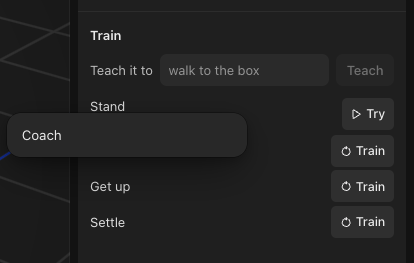
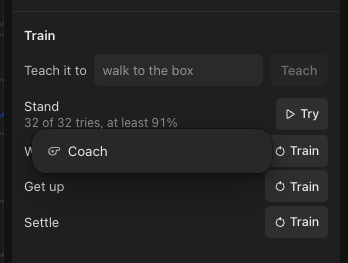
Show a coached skill's numbers on its row, keep coaching through a recheck, and link coaching from Arena and the Motor Kit article
Review asked for three fixes, all made here:
- A coached row's menu had an item labelled only with two numbers that
  replayed the skill. It is now a Compare item with CompareIcon. The
  signal's before and after numbers moved to a second state line under
  the row's Arena result, in the app's length format ("130 → 119 mm").
- An Arena recheck after a physics edit saved the coached policy without
  its coach tag. That lost Undo Coach and Compare, and the next coaching
  started from the plain Kit reward. recheckWork now keeps the tag, and a
  runtime test covers it.
- Coach had borrowed Train's icon. It now has its own CoachIcon (a
  whistle) in the menu, in ⌘K and in the agent feed.

Two smaller fixes:
- list_skills no longer shows an earlier coaching's result while a new
  one runs.
- The agent guide lists /coach.

The e2e test now undoes the coaching. The help article's step 6 and its
screenshots match the new menu and row.

The help articles that cover the edited files were read against the
new code. Arena's "Why the reward can't cheat" and the Motor Kit
article now link coaching; the rest still hold as written.

diff --git a/src/components/simulate/SkillsList.tsx b/src/components/simulate/SkillsList.tsx
@@ -1,5 +1,7 @@
 import React from 'react';
 import { Button, IconButton, RefreshIcon, RunIcon, StopIcon, TrainIcon } from '../../design-system';
+import { signalFigure, signalNumber } from '../../skills/coachSignals';
+import type { CoachTag } from '../../skills/skillRecords';
 import type { SkillRow } from '../../skills/skillRows';
 import { snapshotRefs, type SnapshotRef } from '../../skills/snapshots';
 import { fmtMargin, trainingLine } from './format';
@@ -14,14 +16,18 @@ export interface SkillActions {
   onMenu?: (e: React.MouseEvent, row: SkillRow) => void;
 }
 
-function stateLine(row: SkillRow): string | null {
+const coachedLine = (tag: CoachTag) =>
+  `${signalFigure(tag.signal, tag.before)} → ${signalNumber(tag.signal, tag.after)}`;
+
+function stateLines(row: SkillRow): string[] {
   const { state } = row;
+  const tag = row.record?.coach;
 
-  if (state.kind === 'ready') return state.arena;
+  if (state.kind === 'ready') return tag ? [state.arena, coachedLine(tag)] : [state.arena];
 
-  if (state.kind !== 'training') return null;
+  if (state.kind !== 'training') return [];
 
-  return trainingLine(state.message, state.share);
+  return [trainingLine(state.message, state.share)];
 }
 
 const RowAction: React.FC<{ row: SkillRow; actions: SkillActions }> = ({ row, actions }) => {
@@ -98,7 +104,7 @@ export const SkillsList: React.FC<{ rows: SkillRow[]; actions: SkillActions; mar
 }) => (
   <ul className="flex flex-col gap-1" data-testid="skills-list">
     {rows.map((row) => {
-      const line = stateLine(row);
+      const lines = stateLines(row);
       const shown = watchedMargin(row, margin);
 
       return (
@@ -112,7 +118,11 @@ export const SkillsList: React.FC<{ rows: SkillRow[]; actions: SkillActions; mar
           <div className="flex items-center gap-2 min-h-[32px]">
             <div className="flex-1 min-w-0">
               <div className="text-[13px] text-white/85 truncate">{row.label}</div>
-              {line && <div className="text-[12px] text-white/50 tabular truncate">{line}</div>}
+              {lines.map((line) => (
+                <div key={line} className="text-[12px] text-white/50 tabular truncate">
+                  {line}
+                </div>
+              ))}
               {row.state.kind === 'training' && row.state.share !== null && <ProgressBar share={row.state.share} />}
             </div>
             {shown !== null && (

diff --git a/src/skills/skillsRuntime.test.ts b/src/skills/skillsRuntime.test.ts
@@ -3,7 +3,7 @@ import { fixtureModel } from './fixtureModels';
 import type { ForgeOutcome } from './forgeRunner';
 import { moveEnvironment } from './moveEnvironment';
 import { fixtureMoveSkill, quadSit } from './moveFixtures';
-import type { SkillRecord } from './skillRecords';
+import { skillRecord, type CoachTag, type SkillRecord } from './skillRecords';
 import type { SkillJob } from './skillRows';
 import type { SnapshotRef } from './snapshots';
 import type { SkillRunner } from './skillsClient';
@@ -104,5 +104,37 @@ describe('snapshots in the skills runtime', () => {
     expect(keep).toHaveBeenCalledWith(records[0].hash, [snapshot(50), snapshot(100), snapshot(150)]);
     expect(records[0].snapshots).toEqual([snapshot(100), snapshot(150)]);
     expect(runtime.jobs).toEqual([]);
+  });
+});
+
+describe('rechecking a coached Kit skill', () => {
+  it('keeps the coaching on the record Arena proves again', async () => {
+    const skill = fixtureMoveSkill({ model, animation: quadSit() });
+    const coach: CoachTag = {
+      words: 'crouch lower',
+      reward: 'def reward(state):\n    return -state.z\n',
+      signal: 'base_height',
+      direction: 'down',
+      before: 130,
+      after: 118.7,
+      from: 'old',
+    };
+    const record = skillRecord(skill, { kit: 'stand', coach });
+    const records: SkillRecord[] = [];
+    const runtime = new SkillsRuntime({
+      runner: (() => Promise.resolve({ type: 'recheck', skill })) as SkillRunner,
+      forge: () => () => Promise.resolve<ForgeOutcome>({ ok: true, policy: null, events: [], stderr: '', run: 'r' }),
+      save: () => Promise.resolve(),
+      loadSkill: () => Promise.resolve(skill),
+      onRecord: (r) => records.push(r),
+      onChange: () => {},
+    });
+
+    const task = { target: 'kit:stand', label: 'Stand', entry: 'stand', move: null, kind: 'recheck', record } as const;
+
+    expect(runtime.recheck(model, task)).toBeNull();
+    await runtime.settled();
+
+    expect(records.at(-1)?.coach).toEqual(coach);
   });
 });

diff --git a/e2e/skills.e2e.test.ts b/e2e/skills.e2e.test.ts
@@ -365,7 +365,7 @@ describe('coaching a ready skill', () => {
     );
   const revised = (term: string) => `${kitReward(model, 'stand')}\n\ndef style(state):\n    return ${term}\n`;
 
-  it('coaches Stand from the row’s menu, keeps a crouch that passes, and keeps it when a slump fails Arena', async () => {
+  it('coaches Stand from the row’s menu, keeps a crouch that passes, keeps it when a slump fails Arena, and undoes it', async () => {
     const robot = fixtureRobots().find((r) => r.id === 'quad-servo')!;
 
     await loadScene({ name: 'quad', parts: robot.parts, project: { ...DEFAULT_PROJECT, joints: robot.joints } });
@@ -439,6 +439,11 @@ describe('coaching a ready skill', () => {
     await expect.poll(listed, { timeout: 150000 }).toContain('- Dropped; the old skill stays.');
     await expect.poll(() => row.innerText(), { timeout: 60000 }).toContain('of 32 tries');
     expect(await row.getAttribute('data-skill')).toBe(coached);
+    expect(await row.innerText()).toContain('→');
+    await row.click({ button: 'right' });
+    await expect.poll(() => app.page.getByRole('menuitem', { name: 'Compare' }).count()).toBe(1);
+    await app.page.getByRole('menuitem', { name: 'Undo Coach' }).click();
+    await expect.poll(() => row.getAttribute('data-skill'), { timeout: 60000 }).toBe(ready);
     expect(app.errors).toEqual([]);
   }, 400000);
 });

diff --git a/src/skills/coachSignals.ts b/src/skills/coachSignals.ts
@@ -4,6 +4,7 @@ import type { SimModel } from '../sim/mjcfTypes';
 import { ArenaWorld } from './arenaWorld';
 import type { Environment } from './environment';
 import { nominal } from './rollout';
+import { lengthFigure } from '../utils/size';
 
 export const COACH_SIGNALS = ['foot_clearance', 'contact_impulse', 'joint_jerk', 'base_height', 'speed'] as const;
 
@@ -48,8 +49,11 @@ export const SIGNAL_SPECS: Record<CoachSignal, SignalSpec> = {
 export const isCoachSignal = (name: unknown): name is CoachSignal =>
   typeof name === 'string' && (COACH_SIGNALS as readonly string[]).includes(name);
 
+export const signalFigure = (signal: CoachSignal, value: number) =>
+  SIGNAL_SPECS[signal].unit === 'mm' ? lengthFigure(value) : String(Number(value.toFixed(SIGNAL_SPECS[signal].digits)));
+
 export const signalNumber = (signal: CoachSignal, value: number) =>
-  `${value.toFixed(SIGNAL_SPECS[signal].digits)} ${SIGNAL_SPECS[signal].unit}`;
+  `${signalFigure(signal, value)} ${SIGNAL_SPECS[signal].unit}`;
 
 export const minimumMove = (signal: CoachSignal, before: number) =>
   Math.max(SIGNAL_SPECS[signal].floor, SIGNAL_SPECS[signal].share * Math.abs(before));

diff --git a/src/components/simulate/skillMenu.tsx b/src/components/simulate/skillMenu.tsx
@@ -1,0 +1,24 @@
+import { CoachIcon, CompareIcon, UndoIcon, type ContextMenuEntry } from '../../design-system';
+import type { SkillRow } from '../../skills/skillRows';
+import { canCoach, type SkillCoachState } from '../../workspace/useSkillCoach';
+
+const ic = 'w-4 h-4';
+
+export function skillMenuItems(row: SkillRow, coach: SkillCoachState, coaches: boolean): ContextMenuEntry[] {
+  const items: ContextMenuEntry[] =
+    coaches && canCoach(row)
+      ? [{ label: 'Coach', icon: <CoachIcon className={ic} />, onSelect: () => coach.start(row) }]
+      : [];
+
+  if (!row.record?.coach || row.state.kind !== 'ready') return items;
+
+  const undo: ContextMenuEntry[] = coach.canUndo(row)
+    ? [{ label: 'Undo Coach', icon: <UndoIcon className={ic} />, onSelect: () => coach.undo(row) }]
+    : [];
+
+  return [
+    ...items,
+    { label: 'Compare', icon: <CompareIcon className={ic} />, onSelect: () => void coach.replay(row) },
+    ...undo,
+  ];
+}

diff --git a/src/components/agent/simToolRules.ts b/src/components/agent/simToolRules.ts
@@ -8,6 +8,7 @@ import {
   RoutinesIcon,
   RunIcon,
   SwapIcon,
+  CoachIcon,
   TrainIcon,
 } from '../../design-system';
 import { plainRule, type ToolRule } from './toolRule';
@@ -27,6 +28,6 @@ export const SIM_RULES: ToolRule[] = [
   plainRule(['draft_skill'], TrainIcon, ['Drafting a skill', 'Drafted a skill']),
   plainRule(['train_skill'], TrainIcon, ['Starting training', 'Started training']),
   plainRule(['list_skills'], TrainIcon, ['Checking skills', 'Checked skills']),
-  plainRule(['coach_skill'], TrainIcon, ['Coaching a skill', 'Coached a skill']),
+  plainRule(['coach_skill'], CoachIcon, ['Coaching a skill', 'Coached a skill']),
   plainRule(['training_status'], TrainIcon, ['Checking training', 'Checked training']),
 ];

diff --git a/src/skills/skillsCoach.ts b/src/skills/skillsCoach.ts
@@ -61,7 +61,7 @@ export class SkillCoach {
   start(model: SimModel, job: CoachJob & { words: string }, row: { target: SkillTarget; label: string }) {
     const { words, ...rest } = job;
 
-    return this.host.startJob(row, async (ports) => {
+    const busy = this.host.startJob(row, async (ports) => {
       const { outcome } = await this.host.runner({ type: 'coach', model, ...rest }, ports);
 
       if (outcome.kind === 'kept') {
@@ -81,5 +81,9 @@ export class SkillCoach {
 
       this.last = { name: row.label, kept: outcome.kind === 'kept', lines: reportLines(outcome) };
     });
+
+    if (!busy) this.last = null;
+
+    return busy;
   }
 }

diff --git a/src/workspace/coachCommands.tsx b/src/workspace/coachCommands.tsx
@@ -1,5 +1,5 @@
 import type { Command } from '../components/CommandPalette';
-import { TrainIcon } from '../design-system';
+import { CoachIcon } from '../design-system';
 import type { CommandInputs } from './sceneCommands';
 import { canCoach } from './useSkillCoach';
 
@@ -10,7 +10,7 @@ export function coachCommands({ core }: CommandInputs): Command[] {
     id: `coach-${row.target}`,
     group: 'Simulate',
     label: `Coach ${row.label}`,
-    icon: <TrainIcon className="w-4 h-4" />,
+    icon: <CoachIcon className="w-4 h-4" />,
     keywords: 'coach skill style reward teach train',
     run: () => {
       core.tool.openRightTab('sim');

diff --git a/src/design-system/toolIcons.tsx b/src/design-system/toolIcons.tsx
@@ -52,6 +52,12 @@ export const RunIcon = glyph('M6 5Q6 3 7.7 4.05L18.8 10.95Q20.5 12 18.8 13.05L7.
 
 export const TrainIcon = glyph('M17.48 7.27A7.75 7.75 0 1 1 12 5L14.25 5M11.6 2.35L14.25 5L11.6 7.65');
 
+export const CoachIcon = glyph({
+  d: 'M9.5 6H20A1.5 1.5 0 0 1 21.5 7.5V9.5A1.5 1.5 0 0 1 20 11H15.82A6.5 6.5 0 1 1 9.5 6Z',
+  dots: 'M9.5 12.5h0',
+  dotSize: 4.5,
+});
+
 export const ToolIcon = glyph('M4 6.5L9.5 12L4 17.5M12.5 18H20');
 
 export const ThoughtIcon = glyph(

diff --git a/src/skills/skillsRuntime.ts b/src/skills/skillsRuntime.ts
@@ -396,7 +396,10 @@ export class SkillsRuntime {
 
     const move = task.move ? moveTag(task.move.id, environment) : undefined;
 
-    await this.keep(task.target, skillRecord(reply.skill, { kit: task.entry, move }));
+    await this.keep(
+      task.target,
+      skillRecord(reply.skill, { kit: task.entry, move, coach: task.record.coach ?? undefined }),
+    );
   }
 
   private setJob(target: SkillTarget, patch: Partial<SkillJob> | null) {

diff --git a/docs/guide/design-system.md b/docs/guide/design-system.md
@@ -7,7 +7,7 @@ Part of the Basecase guide. [AGENTS.md](../../AGENTS.md) holds the rules every c
 Use these primitives. Never hand-roll a styled `<button>` or input when one fits.
 
 - `Button` (primary, secondary, ghost, danger, contrast; xs/sm/md; optional `title` + `shortcut` tooltip)
-- `MenuItem` (shared by `PopoverMenu` and `ContextMenu`): `tone: 'danger'` paints the label and its icon red. Labels in one menu line up: when any item leads with an icon or a tick column (`checked`, even `false`), an item with neither keeps an empty 16px column in their place (`menuGutter.tsx`). Each menu surface is its own scope: a `ContextMenu` decides from its entries, while a `PopoverMenu` or a submenu counts the items rendered in it, so a submenu never shifts the menu that opened it. Never pass `checked={false}` or an empty span to fake the column. A menu's Rename, Duplicate and Delete come from `renameEntry`, `duplicateEntry` and `deleteEntry` (`menuEntries.tsx`), so each has one label and icon in every menu (Delete red, with an optional shortcut). Duplicate wears `DuplicateIcon` wherever it appears, Inspector buttons and the part commands included; `CopyIcon` is Copy's alone. The same holds for every action in buttons, menus and ⌘K: Stop wears `StopIcon` (`CloseIcon` is for Close, Cancel, Remove and clearing a field), New Scene `PlusIcon` like New Case and New Routine (`ComposeIcon` is the agent's new chat), Save to Library and Save Selection `BookmarkAddIcon`, Run Checks `CheckIcon`, Compare `CompareIcon`, and Recheck `RefreshIcon`, which also marks Retry and Update from Onshape. `CrosshairIcon` is Center on Origin's alone: Zoom to Selection wears `FitIcon`, like the image viewer's Zoom to fit, and Reset View wears `RotateLeftIcon`, like Reset Rotation.
+- `MenuItem` (shared by `PopoverMenu` and `ContextMenu`): `tone: 'danger'` paints the label and its icon red. Labels in one menu line up: when any item leads with an icon or a tick column (`checked`, even `false`), an item with neither keeps an empty 16px column in their place (`menuGutter.tsx`). Each menu surface is its own scope: a `ContextMenu` decides from its entries, while a `PopoverMenu` or a submenu counts the items rendered in it, so a submenu never shifts the menu that opened it. Never pass `checked={false}` or an empty span to fake the column. A menu's Rename, Duplicate and Delete come from `renameEntry`, `duplicateEntry` and `deleteEntry` (`menuEntries.tsx`), so each has one label and icon in every menu (Delete red, with an optional shortcut). Duplicate wears `DuplicateIcon` wherever it appears, Inspector buttons and the part commands included; `CopyIcon` is Copy's alone. The same holds for every action in buttons, menus and ⌘K: Stop wears `StopIcon` (`CloseIcon` is for Close, Cancel, Remove and clearing a field), New Scene `PlusIcon` like New Case and New Routine (`ComposeIcon` is the agent's new chat), Save to Library and Save Selection `BookmarkAddIcon`, Run Checks `CheckIcon`, Compare `CompareIcon`, Coach `CoachIcon`, and Recheck `RefreshIcon`, which also marks Retry and Update from Onshape. `CrosshairIcon` is Center on Origin's alone: Zoom to Selection wears `FitIcon`, like the image viewer's Zoom to fit, and Reset View wears `RotateLeftIcon`, like Reset Rotation.
 - `IconButton` (required `title`, `shortcut`, `isActive` solid accent, `isToggled` soft fill; xs/sm/md/lg). `variant="send"` with `className="rounded-full"` is the round white button that sends what's typed: the agent composer's Send, Update and Stop, and a comment's Post.
 - Both take `className="rounded-full"` for a fully round button: `sizeRadius` drops the size's own radius, because Tailwind's stylesheet order, not class order, decides which radius wins and `rounded-lg` beats `rounded-full`. Any other whole-button radius passed through `className` needs `!`.
 - `Tooltip` (portal, 500ms delay, instant while “warm”), `Kbd`. A tooltip never shows while the popover its trigger controls is open: give every popover or menu trigger `aria-expanded={open}` (and `aria-haspopup="menu"` for menus), and `Tooltip` stays hidden while it's true. Don't hand-roll `disabled={open}` or drop the title instead.
@@ -28,7 +28,7 @@ Use these primitives. Never hand-roll a styled `<button>` or input when one fits
 - `CURSORS` (`cursors.ts`): the canvas cursors (§12); `ARROW_PATH` is shared with `AgentCursor`.
 - **Icons** are all our own (no icon dependency). Every one draws through `Glyph` (`glyph.tsx`): its strokes go into a mask and one `currentColor` rect is painted through it, so overlapping strokes never double up at translucent colours. Each takes `className`, `style` and `strokeWidth` (2 by default; Plus, Close and the chevrons are drawn at 2.5 through their spec's `weight`, since thin small controls read too light).
   - The UI library (`glyphs/`, about 100: `PlusIcon`, `CloseIcon`, `ChevronDownIcon`, `MoveIcon`, `SettingsIcon`, `UnionIcon`…) is generated from `tools/icons/library.mjs` by `npm run icons` (the sketch editor's tools and constraints, `RectangleIcon`, `ArcIcon`, `HorizontalIcon`, `VerticalIcon`, `ParallelIcon`, `PerpendicularIcon`, `EqualIcon`, `TangentIcon`, `CoincidentIcon`, are its `sketch` group in `tools/icons/sketch.mjs`); edit the drawings there, never the generated files. `node tools/icons/sheet.mjs <out.png>` renders the whole set.
-  - View icons (`icons.tsx`): `PartsIcon`, `RobotsIcon`, `ObjectsIcon` (a bottle), `CasesIcon` (an isometric cube: Cases and the Play rail item; filled, the edges are knocked out), `RoutinesIcon` (a flowchart), `LibraryIcon`, `LayersIcon`, each `{ filled?, className? }` (outline idle, filled active); `DriveIcon` (`{ drive }`: a screw head with its solid Hex, Torx, Phillips, Pozidriv or slot recess; one state). Agent feed glyphs (`toolIcons.tsx`, one path each so they stay clean at `white/45`): `ShapeIcon`, `EditIcon`, `DeleteIcon`, `CodeIcon`, `LookIcon`, `CompareIcon`, `CheckIcon`, `SearchIcon`, `WebIcon`, `FileIcon`, `PhotoIcon`, `JointsIcon`, `PoseIcon`, `RunIcon`, `TrainIcon`, `ToolIcon`, `ThoughtIcon`. The UI reuses them where the idea is the same (`SearchIcon`, `LookIcon` for show, `DeleteIcon`, `EditIcon` for rename, `PhotoIcon`, `RunIcon` for play, `PoseIcon`). New icons follow the `icon-design` skill.
+  - View icons (`icons.tsx`): `PartsIcon`, `RobotsIcon`, `ObjectsIcon` (a bottle), `CasesIcon` (an isometric cube: Cases and the Play rail item; filled, the edges are knocked out), `RoutinesIcon` (a flowchart), `LibraryIcon`, `LayersIcon`, each `{ filled?, className? }` (outline idle, filled active); `DriveIcon` (`{ drive }`: a screw head with its solid Hex, Torx, Phillips, Pozidriv or slot recess; one state). Agent feed glyphs (`toolIcons.tsx`, one path each so they stay clean at `white/45`): `ShapeIcon`, `EditIcon`, `DeleteIcon`, `CodeIcon`, `LookIcon`, `CompareIcon`, `CheckIcon`, `SearchIcon`, `WebIcon`, `FileIcon`, `PhotoIcon`, `JointsIcon`, `PoseIcon`, `RunIcon`, `TrainIcon`, `CoachIcon` (a whistle), `ToolIcon`, `ThoughtIcon`. The UI reuses them where the idea is the same (`SearchIcon`, `LookIcon` for show, `DeleteIcon`, `EditIcon` for rename, `PhotoIcon`, `RunIcon` for play, `PoseIcon`). New icons follow the `icon-design` skill.
 - `SpecRow` (`components/PartDetails.tsx`): the part page's label-left, value-right row (13px); used by part pages, the Inspector's Product section and `HardwareSpecs`. `SpecRows` is a component's Size and datasheet specs as those rows.
 - `SceneTabs` (`src/components`): the scene tab strip (§5a)
 - `ExportMenu` (`src/components`): the title bar's Export button and its format menu.

diff --git a/docs/guide/agent.md b/docs/guide/agent.md
@@ -66,7 +66,7 @@ Silhouette and proportion scores (what the bench measures today) matter less tha
   - `explore_case` (same files, §8h) answers which servo to buy: it runs Explore on a Case (the open one, or one named by id or name) through `useCaseExplore.explore`, the same sweep and rows as the Simulate tab's, and returns `current` (each joint's servo MPN and the supply volts) and every design sorted by passes then cost, each with its label, volts, passes of 8, worst margin, cost in USD, mass, the swapped MPNs and its refusal. It never edits the scene. The renderer timeout is 600 s. A Case with more than one slot, or a robot with no catalog servo that comes in versions, returns `ok: false` with why. The simulation guide tells the agent to recommend the cheapest design that passes every run.
   - **Skills** (`cad-mcp/skillTools.mjs`, renderer side `src/workspace/agentSkillRequests.ts`, §8i), replacing the stand/walk `train_policy`: `draft_skill` takes a name, the user's words, a goal (`reach` with waypoints in the agent frame, `velocity` in m/s and rad/s, or `open`), a try length, a contract over named signals in SI units, extra signals, optional RewardLang candidates and routing hints, and answers with the draft id, the contract in plain words, the router's first method and why, nominal rollouts (holding still, and the planned poses for a reach) and any design limit with its relaxation; `train_skill` runs the solver race on an approved draft, or one Motor Kit entry (`kit`: stand, walk, get-up, settle), or one move (`move`: a Pose-tab animation's name, matched without case), in the background and returns at once; `list_skills` lists the Kit, the moves and the taught skills with their state and the last race (the winning method, or each method tried and why it failed, plus the relaxation to offer). `coach_skill` changes how a ready Kit skill moves (§8i): called with `skill` and `words` it returns the skill's reward and five signals measured on one clean run with each one's minimum move; called again with the revised `reward`, a `signal` and a `direction` (`up` or `down`) it trains from the ready skill in the background, and `list_skills` adds the last coaching (kept, dropped or refused, with the signal's two numbers). The prompt's `/coach ⟨skill⟩: ⟨words⟩` line, which the Teach field sends when it's scoped to a row, asks for it. Handlers are tested with an in-process runner and a stub Forge (`agentSkillRequests.test.ts`).
   - **Case apps** (prompt section “Case apps”): when the user describes something to do with a robot rather than a change to it (teleop, a puppet, a game, a demo, a station, a behaviour), the agent builds it as a Case app: `create_case` with a console. It uses the scene's robot, or `import_robot` the one named when the scene has none; picks the input named, and when the console reader refuses it as missing in this version, says so in one sentence and uses keys; shows a camera panel for each camera mentioned; writes each control or view no panel kind has (a joystick, a piano, a HUD, a drawing pad) as a code panel with `write_case_code`, in the studio's `--bc-*` tokens, driving only through `window.basecase`; reads every write's reply and fixes each error and refused call, and looks at the capture, before it answers; and keeps the world to the closest goal on a plain floor with only the objects described. Hardware the app can't connect to yet gets one sentence, and the sim side is built anyway. A body movement the user names is a gesture event (§8h): `create_case` takes `gestures`, the names the Case reacts to, keeps the ones that aren't built in as gestures to teach, and returns them as `teach`; the agent then says in one sentence that the person teaches them with Teach Gesture. A message sent while a Case runs arrives with a note naming that Case (`runningCaseNote`), and the prompt says it's about that Case, so the agent changes its app in place. The prompt ends on the **Code panel reference** (`electron/cad-agent-guides/codeBridge.txt`): `window.basecase`'s calls, the signal names, the actions, the `--bc-*` variables and the limits, generated by `codeBridgeReference()` (`src/cases/console/codeReference.ts`) from the bridge's own constants and lists. `codeReference.test.ts` fails when the file drifts; `npx vitest run src/cases/console/codeReference.test.ts -u` writes it again. The micro-eval's `case-apps` tasks (`bench/micro/tasks/caseApps.mjs`) score the console, and its `case-code` tasks (`tasks/caseCode.mjs`, Benchmark guide) score the code panels.
-  - **Slash commands** (prompt section “Slash commands”): `/train` (draft, show, ask, then race), `/routine`, `/case`, `/pass`, `/simulate` and `/check`, each one line. `/pass ⟨Case⟩` changes the design until that Case passes: `run_case`, change what the failed labels and worst run point to (servo, link length, foot or wheel size, gripper), smallest change first, and run again. It isn't in the slash menu; ⌘K's Make It Pass (§11) writes it. The Train section's Teach it to sends `/train <goal>` as a message.
+  - **Slash commands** (prompt section “Slash commands”): `/train` (draft, show, ask, then race), `/coach`, `/routine`, `/case`, `/pass`, `/simulate` and `/check`, each one line. `/pass ⟨Case⟩` changes the design until that Case passes: `run_case`, change what the failed labels and worst run point to (servo, link length, foot or wheel size, gripper), smallest change first, and run again. It isn't in the slash menu; ⌘K's Make It Pass (§11) writes it. The Train section's Teach it to sends `/train <goal>` as a message. `/coach ⟨skill⟩: ⟨words⟩` calls `coach_skill` twice and reports what was kept; it isn't in the slash menu either: the Teach field sends it when Coach scopes it to a ready row.
   - `make_routine`, `read_routine`, `edit_routine`, `test_routine` and `run_routine` (`cad-mcp/routineTools.mjs`, renderer side `src/workspace/agentRoutineRequests.ts`, §8j): the agent writes a Routine from the user's sentence and the app compiles it against the scene's sensors, Motor Kit, trained moves and taught skills, proving each new hand-off between them (`make_routine` and `edit_routine`); `read_routine` returns the open Routine with the user's hand edits, and `edit_routine` applies the same edit operations the Routines view uses, so hand and agent edits keep each other; tests run every generated scenario; a run is L1 physics, live on the canvas or headless. Replies are one JSON object.
   - `find_objects` searches SimReady Central (objects, or kind `robot` for arms and grippers) and `insert_object(url, position)` inserts one (§8e); both are web tools, so offline benchmark runs don't have them.
   - `find_parts` lists the real-parts catalog (`src/data/components.ts`, `hardware.ts`) through the renderer (`agentCatalog` in `src/agent/agentCatalog.ts`): catalog keys, exact sizes in the CAD frame, key specs, mounting details, ports, and prices (`agentCatalogPrices.ts`: checked or dated list price, N·m per dollar, the margin against the scene's hardest stance and holding joints, the budget left; hardware pack prices). Candidates are never sorted cheapest-first.
